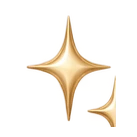
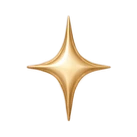
Repair cropped pink illustration assets

Changed region(s): [[0.6131, 0.5547, 0.8467, 0.9343]]

diff --git a/src/constants/workspaceIconChoices.ts b/src/constants/workspaceIconChoices.ts
@@ -29,20 +29,19 @@ export type WorkspaceIconChoice = {
    Duplicate or incomplete art is hidden from new choices without breaking an
    existing tab that still points to its original image URL. */
 const repairedDuplicateSlots: Partial<Record<WorkspaceIconCollectionId, ReadonlySet<number>>> = {
-  "pink-iphone": new Set([92, 99, 102, 177, 179, 355, 357, 398]),
+  // These saved URLs now show a complete neighboring drawing. Keep them out of
+  // the picker where the replacement would otherwise duplicate a good icon.
+  "pink-iphone": new Set([92, 99, 102, 139, 177, 179, 288, 345, 348, 355, 357, 398, 405]),
   "retro-pixel": new Set([61, 62, 63, 69, 71, 109, 137, 139]),
 };
 
 /**
- * These pink illustration crops are visibly incomplete (detached shapes,
- * chopped paw pads, or a leftover sliver). Keep their files for old saved URLs,
- * but leave them out of the picker so nobody can select a broken-looking icon.
+ * These remaining source crops contain only meaningless detached shapes. Their
+ * files contain transparent placeholders so old saved icon URLs never display
+ * a chopped fragment; they are hidden from the picker as well.
  */
 const unusablePinkIllustrationSlots = new Set([
-  133, 139, 288, // sparkle crops contain a stray partial second sparkle
   216, 217, 218, // detached pink bars/squares with crop artifacts
-  405, // the growth-chart crop is missing most of its bars
-  345, 348, // paw artwork was split into disconnected pieces
   407, 408, 409, // isolated pill/bar fragments with stray crop pixels
   539, // a single leftover sliver rather than a complete illustration
 ]);
